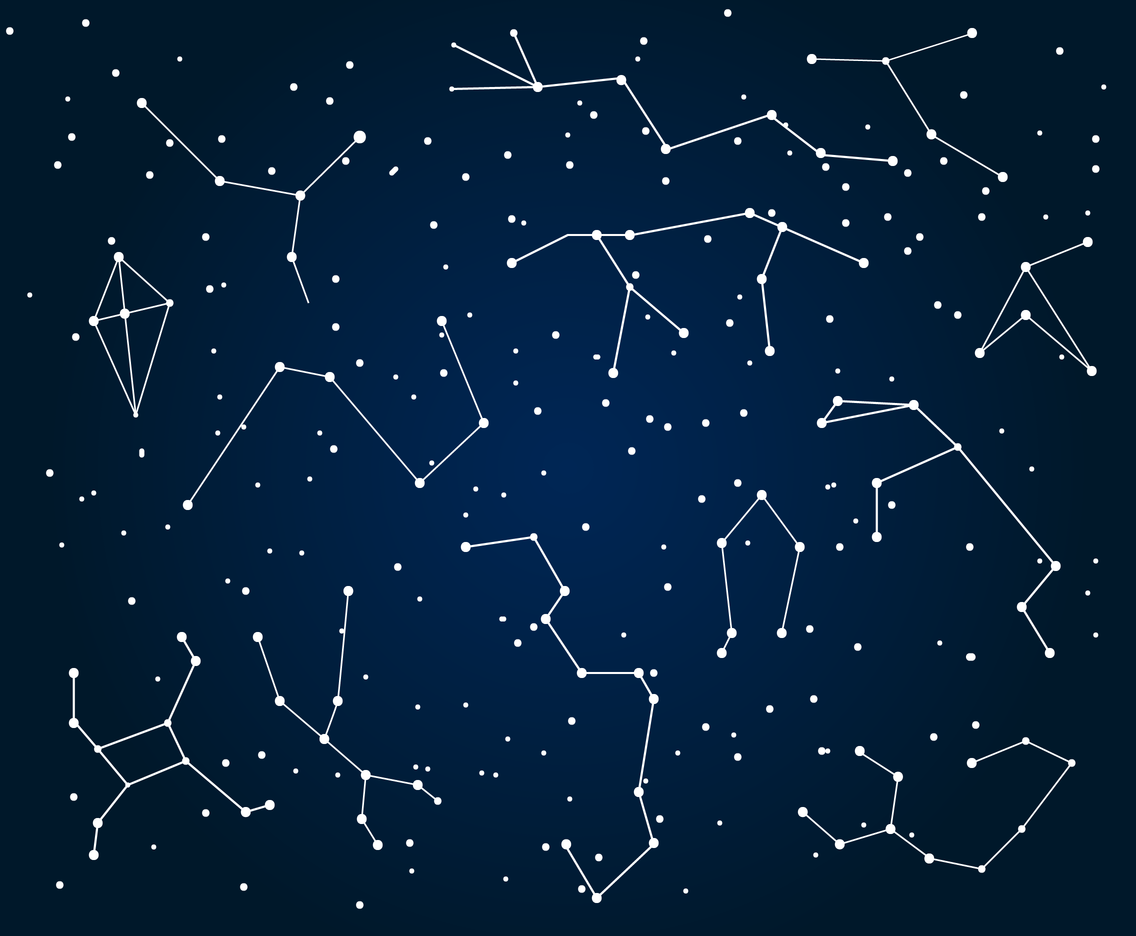
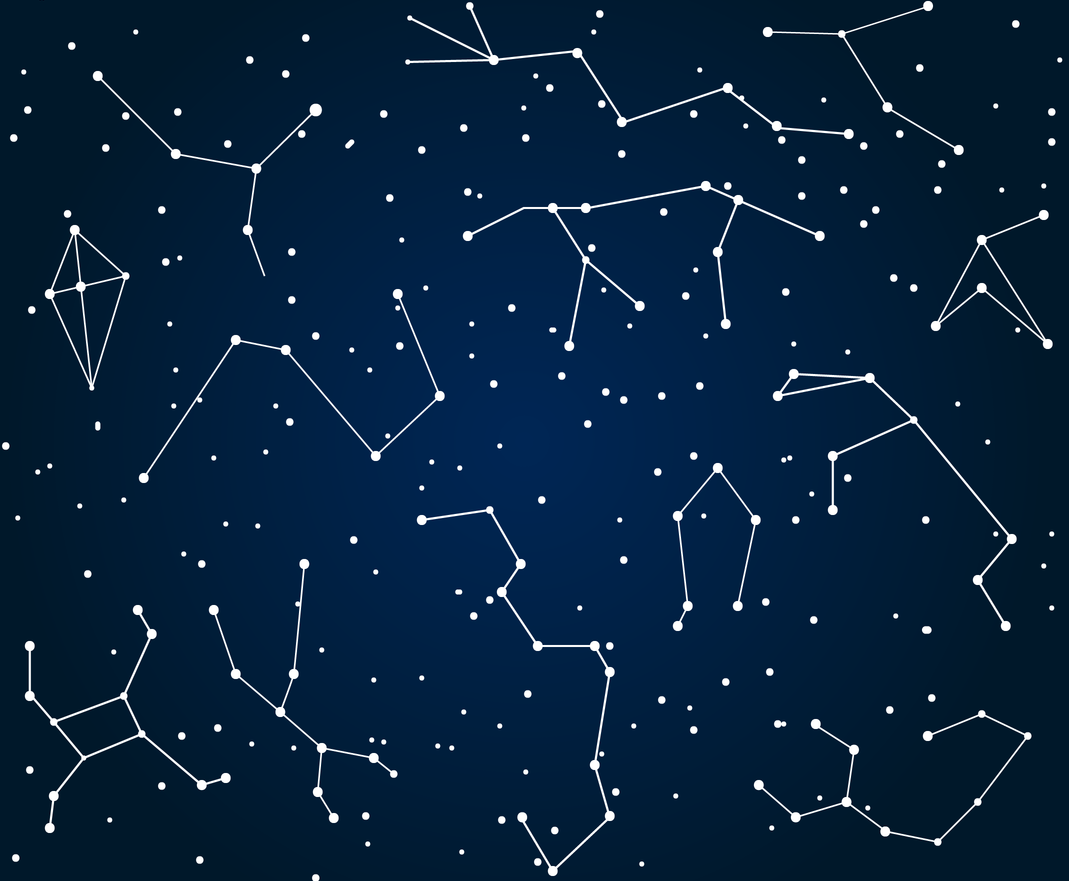
cleanup of dashboard

diff --git a/public/index.css b/public/index.css
@@ -14,7 +14,7 @@ html {
 }
 body {
 	background: url("background_stars.png");
-	background-size: cover;
+	/*background-size: cover;*/
 	overflow: hidden;
 }
 section {
@@ -55,7 +55,7 @@ button:hover {
 	opacity: 0.9;
 	margin: auto;
 	text-align: center;
-	margin-top: 40%;
+	margin-top: 35%;
 	padding: 40px;
 	border-radius: 10%;
 }
@@ -138,13 +138,13 @@ button:hover {
 .currTripsDiv {
 	border-bottom: solid 2px black;
 	padding: 20px;
-	min-height: 200px;
+	min-height: 230px;
 }
 .sharedTripsDiv {
 	margin-bottom: 40px;
 	padding: 20px;
 	text-align: center;
-	min-height: 200px;
+	min-height: 230px;
 }
 .tripDiv {
 	display: grid;
@@ -345,6 +345,7 @@ button:hover {
 .tripDetailsDiv a {
 	font-size: 35px;
 	grid-column: span 3;
+	text-align: center;
 }
 .tripDetailsDiv h1:hover {
 	color: #36ba45;
@@ -443,7 +444,7 @@ button:hover {
 	.dashboardPage {
 		margin: auto;
 		margin-top: 4%;
-		margin-bottom: 2%;
+		margin-bottom: 3%;
 		width: 75%
 	}
 	.currTripsDiv {
@@ -531,7 +532,7 @@ button:hover {
 		width: 50%;
 	}
 	.actLoginDiv, .errorMsgDiv, .actRegisterDiv {
-		margin-top: 15%;
+		margin-top: 13%;
 		width: 250px;
 		padding: 50px;
 	}

diff --git a/public/index.js b/public/index.js
@@ -79,7 +79,7 @@ function backToDashboard() {
         fadeOutDiv.fadeOut();
         displayDashboardTrips()
         displayColabTrips()
-        $('.dashboardPage').delay(600).fadeIn();
+        $('.dashboardPage').css('display', 'block');
     })
 }
 
@@ -95,6 +95,7 @@ function deleteTrip() {
             }
         }).done((trip) => {
             divToRemove.remove();
+            displayColabTrips();
         }).fail((err) => {
             console.log(err)
         });

diff --git a/public/authFrontend.js b/public/authFrontend.js
@@ -75,8 +75,8 @@ function loginErrorMsg(msg) {
 }
 
 function registrationErrorMsg(msg) {
-    $('.actRegisterPage').fadeOut().delay(2000).fadeIn();
-    $('.errorMsgPage').delay(300).fadeIn().delay(1500).fadeOut()
+    $('.actRegisterPage').fadeOut().delay(2200).fadeIn();
+    $('.errorMsgPage').delay(400).fadeIn().delay(1400).fadeOut()
     $('.errorMsgDiv').html(`<p>${msg}</p>`)
 }
 

diff --git a/server.js b/server.js
@@ -8,7 +8,7 @@ const tripRoutes = require('./routes/tripRoutes');
 const authRoutes = require('./routes/auth');
 const sharing = require('./routes/sharingRoutes');
 
-//app.use(morgan('common'));
+app.use(morgan('common'));
 
 app.use(bodyParser.json());
 

diff --git a/public/archives.js b/public/archives.js
@@ -15,6 +15,7 @@ function changeToArchivedTrue() {
 			}
 		}).done((trip) => {
 			divToRemove.remove();
+			displayColabTrips()
 		}).fail((err) => {
 			console.log(err);
 		});
